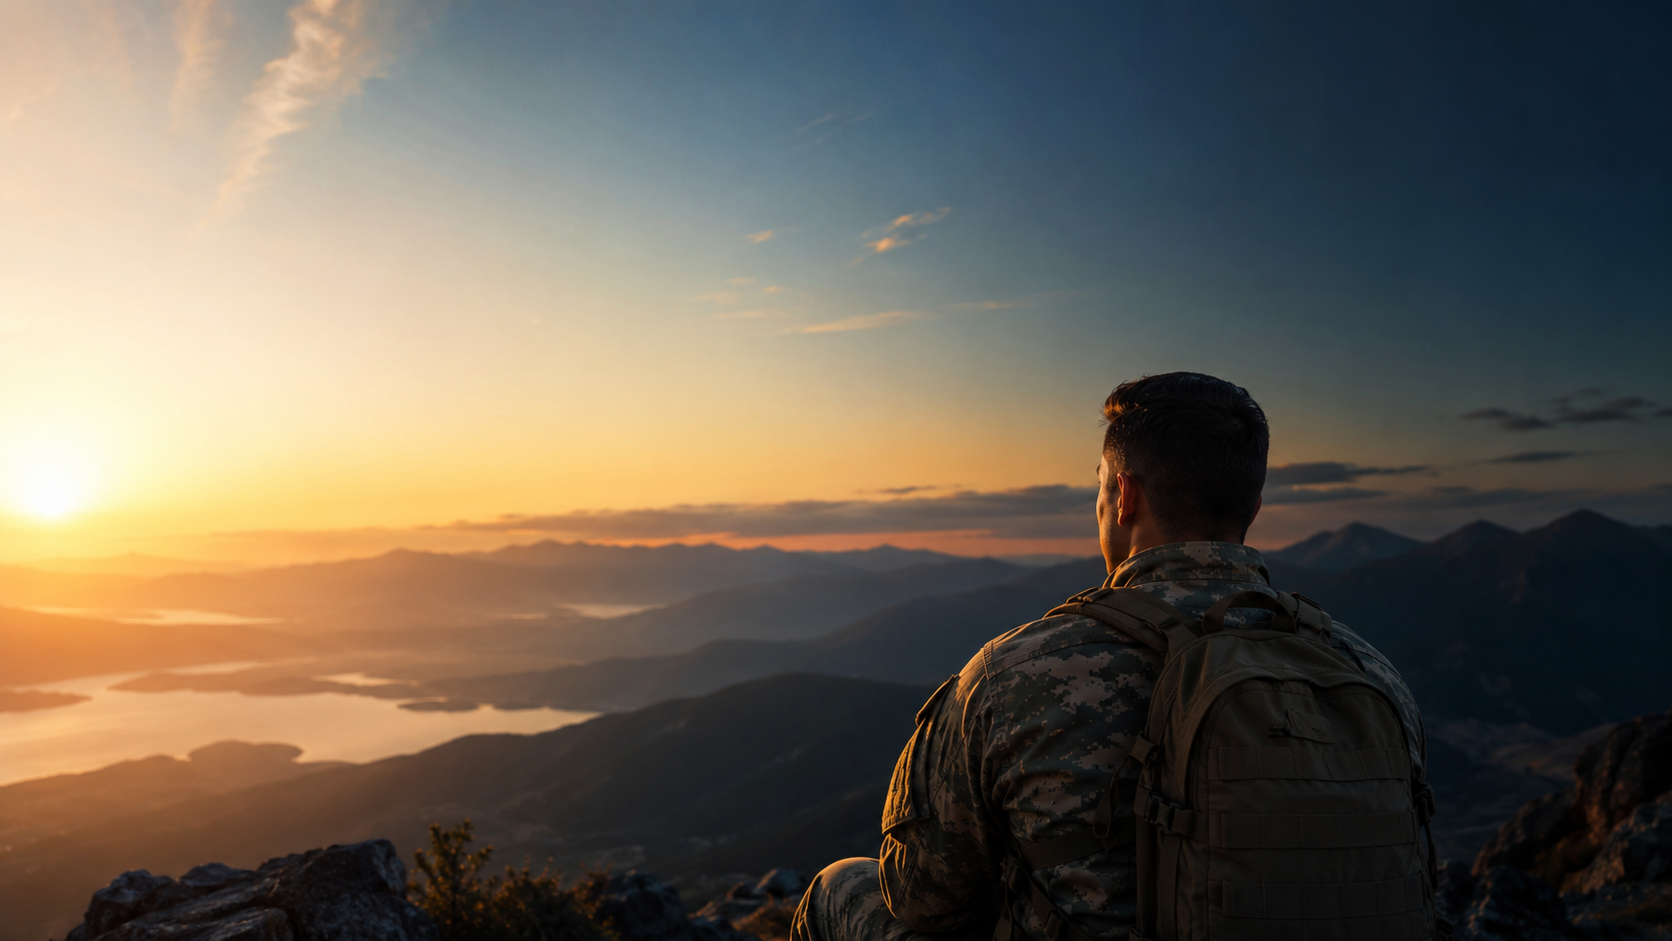
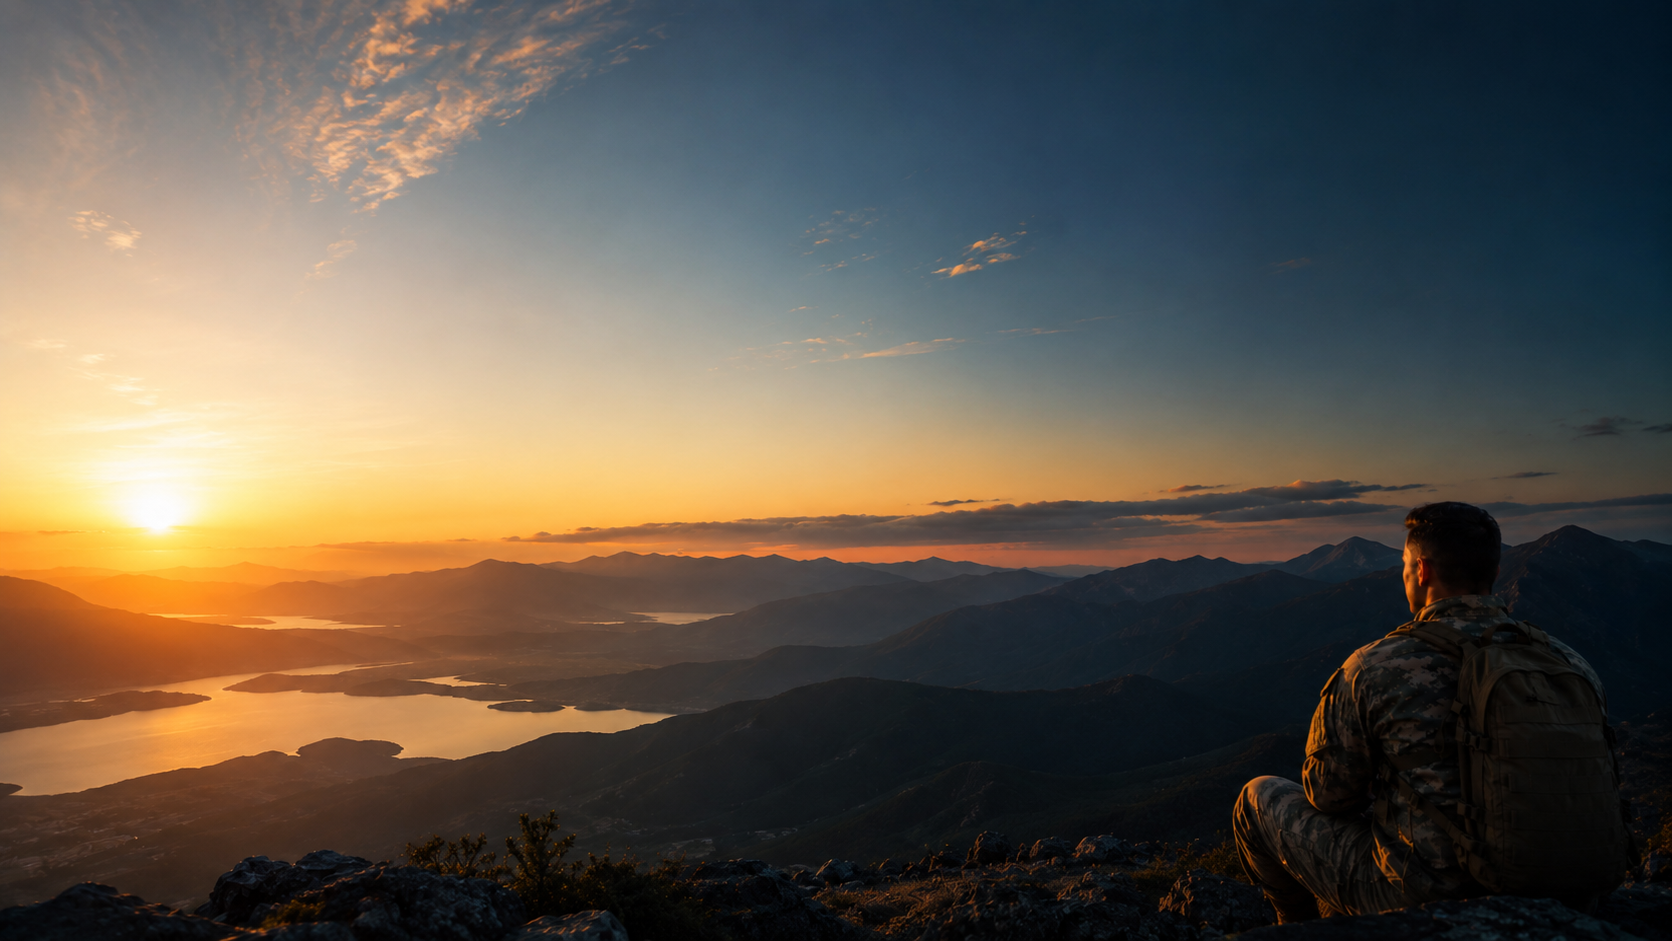
style: homepage-v2 — remove resource and final CTA sections, update hero image

diff --git a/src/app/preview/homepage-v2/page.tsx b/src/app/preview/homepage-v2/page.tsx
@@ -677,105 +677,6 @@ function CalculatorGridSection() {
   );
 }
 
-// ── Resource preview section ──────────────────────────────────────────────────
-
-const RESOURCES = [
-  {
-    href: '/guides/military-pay',
-    title: 'The 2026 Military Pay Guide',
-    description: "What's changing and how it impacts you.",
-    eyebrow: 'Guide',
-    eyebrowCls: 'text-blue-700 bg-blue-50 border border-blue-100',
-    borderLeft: 'border-l-blue-400',
-    imgGradient: 'from-blue-800 to-blue-950',
-    imgIcon: (
-      <svg className="w-8 h-8 text-white/30" viewBox="0 0 24 24" fill="none" stroke="currentColor" strokeWidth="1.5" aria-hidden="true">
-        <path strokeLinecap="round" strokeLinejoin="round" d="M12 1v22M17 5H9.5a3.5 3.5 0 0 0 0 7h5a3.5 3.5 0 0 1 0 7H6" />
-      </svg>
-    ),
-  },
-  {
-    href: '/guides/pcs',
-    title: 'PCS Planning Guide',
-    description: "Don't miss the money details before your next move.",
-    eyebrow: 'Guide',
-    eyebrowCls: 'text-emerald-700 bg-emerald-50 border border-emerald-100',
-    borderLeft: 'border-l-emerald-400',
-    imgGradient: 'from-emerald-800 to-emerald-950',
-    imgIcon: (
-      <svg className="w-8 h-8 text-white/30" viewBox="0 0 24 24" fill="none" stroke="currentColor" strokeWidth="1.5" aria-hidden="true">
-        <path strokeLinecap="round" strokeLinejoin="round" d="M5 17H3a2 2 0 0 1-2-2V5a2 2 0 0 1 2-2h11a2 2 0 0 1 2 2v3m-4 11h10a1 1 0 0 0 1-1v-5a1 1 0 0 0-1-1H12a1 1 0 0 0-1 1v5a1 1 0 0 0 1 1zm3-5a2 2 0 1 0 4 0 2 2 0 0 0-4 0zm-7 0a2 2 0 1 0 4 0 2 2 0 0 0-4 0z" />
-      </svg>
-    ),
-  },
-  {
-    href: '/transition',
-    title: 'Transition Financial Guide',
-    description:
-      'Plan income, healthcare, VA benefits, and post-service decisions.',
-    eyebrow: 'Guide',
-    eyebrowCls: 'text-amber-700 bg-amber-50 border border-amber-100',
-    borderLeft: 'border-l-amber-400',
-    imgGradient: 'from-amber-700 to-amber-950',
-    imgIcon: (
-      <svg className="w-8 h-8 text-white/30" viewBox="0 0 24 24" fill="none" stroke="currentColor" strokeWidth="1.5" aria-hidden="true">
-        <path strokeLinecap="round" strokeLinejoin="round" d="M5 12h14M12 5l7 7-7 7" />
-      </svg>
-    ),
-  },
-];
-
-function ResourceSection() {
-  return (
-    <section className="bg-zinc-50 border-b border-zinc-200 py-10 sm:py-12 px-4">
-      <div className="mx-auto max-w-6xl">
-        <div className="flex flex-col sm:flex-row items-start sm:items-end justify-between gap-4 mb-10">
-          <div>
-            <div className="w-8 h-0.5 bg-red-700 rounded-full mb-4" aria-hidden="true" />
-            <h2 className="text-2xl sm:text-3xl font-black text-zinc-900 leading-tight max-w-xl tracking-tight">
-              Guides, tools, and insights for every stage of your military financial journey.
-            </h2>
-          </div>
-          <Link
-            href="/guides"
-            className="shrink-0 text-sm font-bold text-red-700 hover:text-red-800 transition-colors duration-200 whitespace-nowrap"
-          >
-            Explore the Resource Library →
-          </Link>
-        </div>
-
-        <div className="grid grid-cols-1 sm:grid-cols-3 gap-6">
-          {RESOURCES.map(({ href, title, description, eyebrow, eyebrowCls, borderLeft, imgGradient, imgIcon }) => (
-            <Link
-              key={href}
-              href={href}
-              className={`group flex rounded-2xl overflow-hidden bg-white border border-zinc-200 border-l-[3px] ${borderLeft} shadow-sm hover:shadow-lg hover:-translate-y-1 transition-all duration-300`}
-            >
-              {/* Gradient image placeholder with hint icon */}
-              <div className={`w-24 sm:w-28 shrink-0 bg-gradient-to-br ${imgGradient} flex items-center justify-center`}>
-                {imgIcon}
-              </div>
-              {/* Text content */}
-              <div className="flex flex-col p-5 flex-1 min-w-0">
-                <span
-                  className={`inline-flex self-start text-xs font-semibold px-2.5 py-1 rounded-full mb-3 uppercase tracking-wider ${eyebrowCls}`}
-                >
-                  {eyebrow}
-                </span>
-                <h3 className="font-bold text-zinc-900 text-base leading-snug mb-2 group-hover:text-red-700 transition-colors duration-200">
-                  {title}
-                </h3>
-                <p className="text-sm text-zinc-500 leading-relaxed flex-1">{description}</p>
-                <span className="mt-4 text-sm font-bold text-red-700">Read →</span>
-              </div>
-            </Link>
-          ))}
-        </div>
-      </div>
-    </section>
-  );
-}
-
 // ── Footer trust band ─────────────────────────────────────────────────────────
 
 function FooterTrustBand() {
@@ -816,47 +717,6 @@ function FooterTrustBand() {
   );
 }
 
-// ── Final CTA section ─────────────────────────────────────────────────────────
-
-function FinalCTA() {
-  return (
-    <section
-      className="py-10 sm:py-12 px-4"
-      style={{
-        background: 'linear-gradient(145deg, #FFF1F2 0%, #FFFFFF 40%, #FFF1F2 100%)',
-        borderBottom: '1px solid #FECDD3',
-      }}
-    >
-      <div className="mx-auto max-w-2xl text-center">
-        <h2 className="text-3xl sm:text-4xl font-black text-zinc-900 mb-3 tracking-tight">
-          Stop guessing. Start knowing.
-        </h2>
-        <p className="text-base text-zinc-600 mb-10 max-w-md mx-auto leading-relaxed">
-          Use real numbers to make smarter pay, PCS, and retirement decisions — free, private, and
-          in your browser.
-        </p>
-        <div className="flex flex-col sm:flex-row gap-4 justify-center">
-          <Link
-            href="/calculators/total-compensation"
-            className="inline-flex items-center justify-center rounded-xl bg-red-700 px-8 py-4 text-base font-bold text-white hover:bg-red-800 transition-all duration-300 shadow-lg hover:shadow-xl hover:-translate-y-0.5"
-          >
-            See My Full Compensation
-          </Link>
-          <Link
-            href="/calculators"
-            className="inline-flex items-center justify-center rounded-xl border border-zinc-300 bg-white px-8 py-4 text-base font-semibold text-zinc-700 hover:bg-zinc-50 hover:border-zinc-400 hover:shadow-md transition-all duration-300"
-          >
-            Explore All Tools
-          </Link>
-        </div>
-        <p className="mt-6 text-xs text-zinc-400">
-          No sign-up. No personal info. Trusted by service members, veterans, and families.
-        </p>
-      </div>
-    </section>
-  );
-}
-
 // ── Page export ───────────────────────────────────────────────────────────────
 
 export default function HomepageV2PreviewPage() {
@@ -866,9 +726,7 @@ export default function HomepageV2PreviewPage() {
       <JourneySection />
       <TrustBand />
       <CalculatorGridSection />
-      <ResourceSection />
       <FooterTrustBand />
-      <FinalCTA />
     </>
   );
 }
